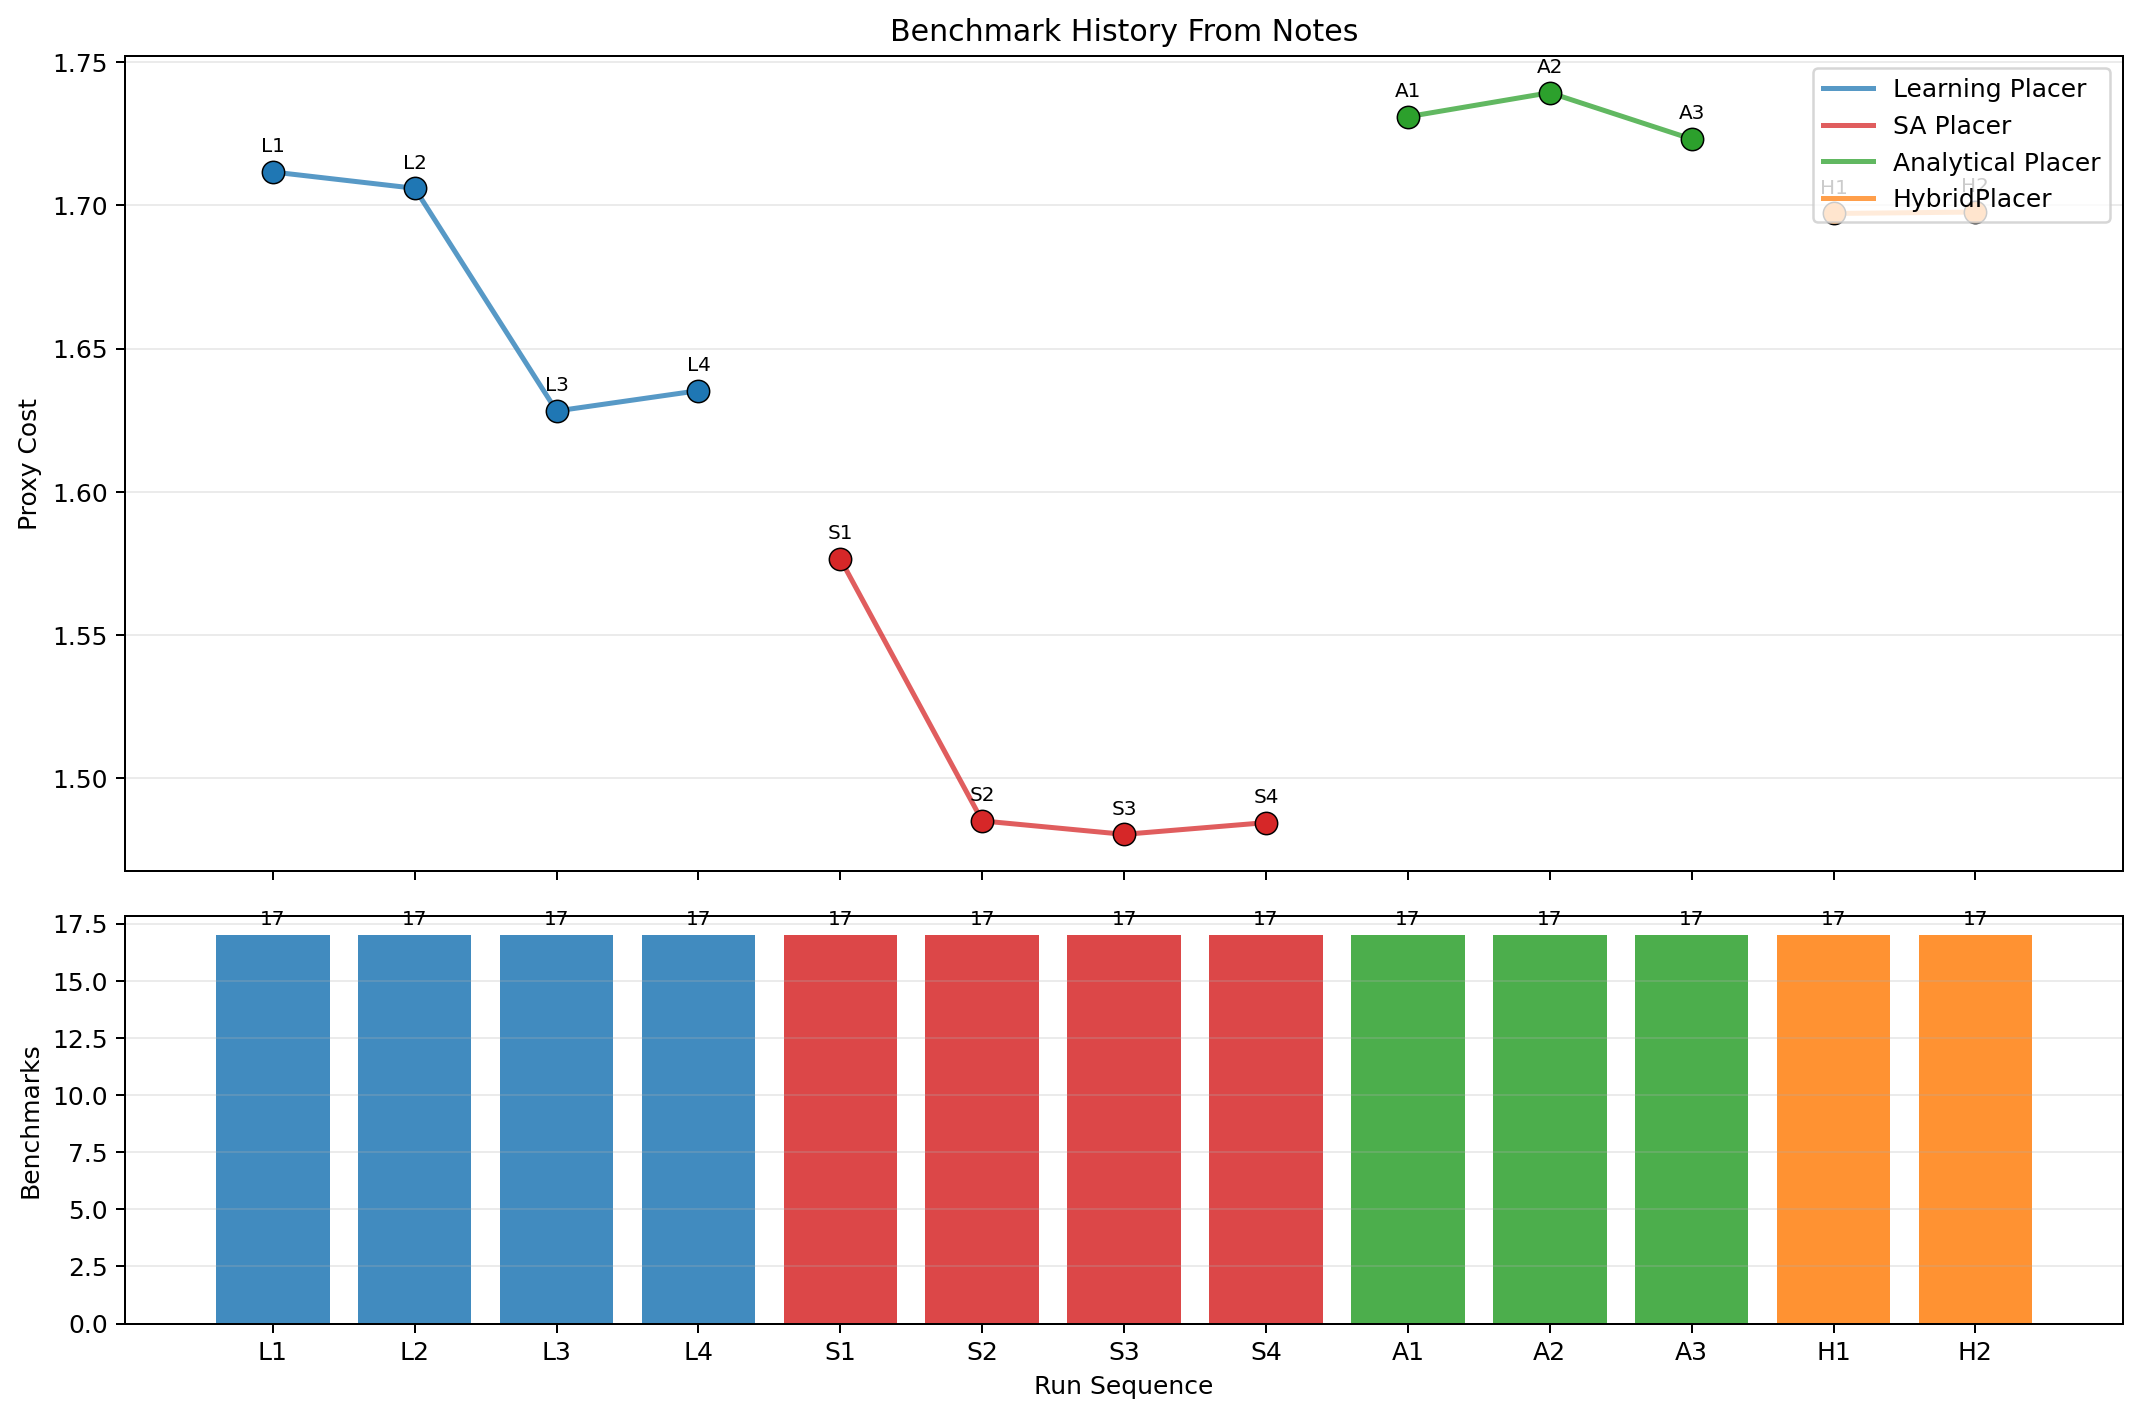
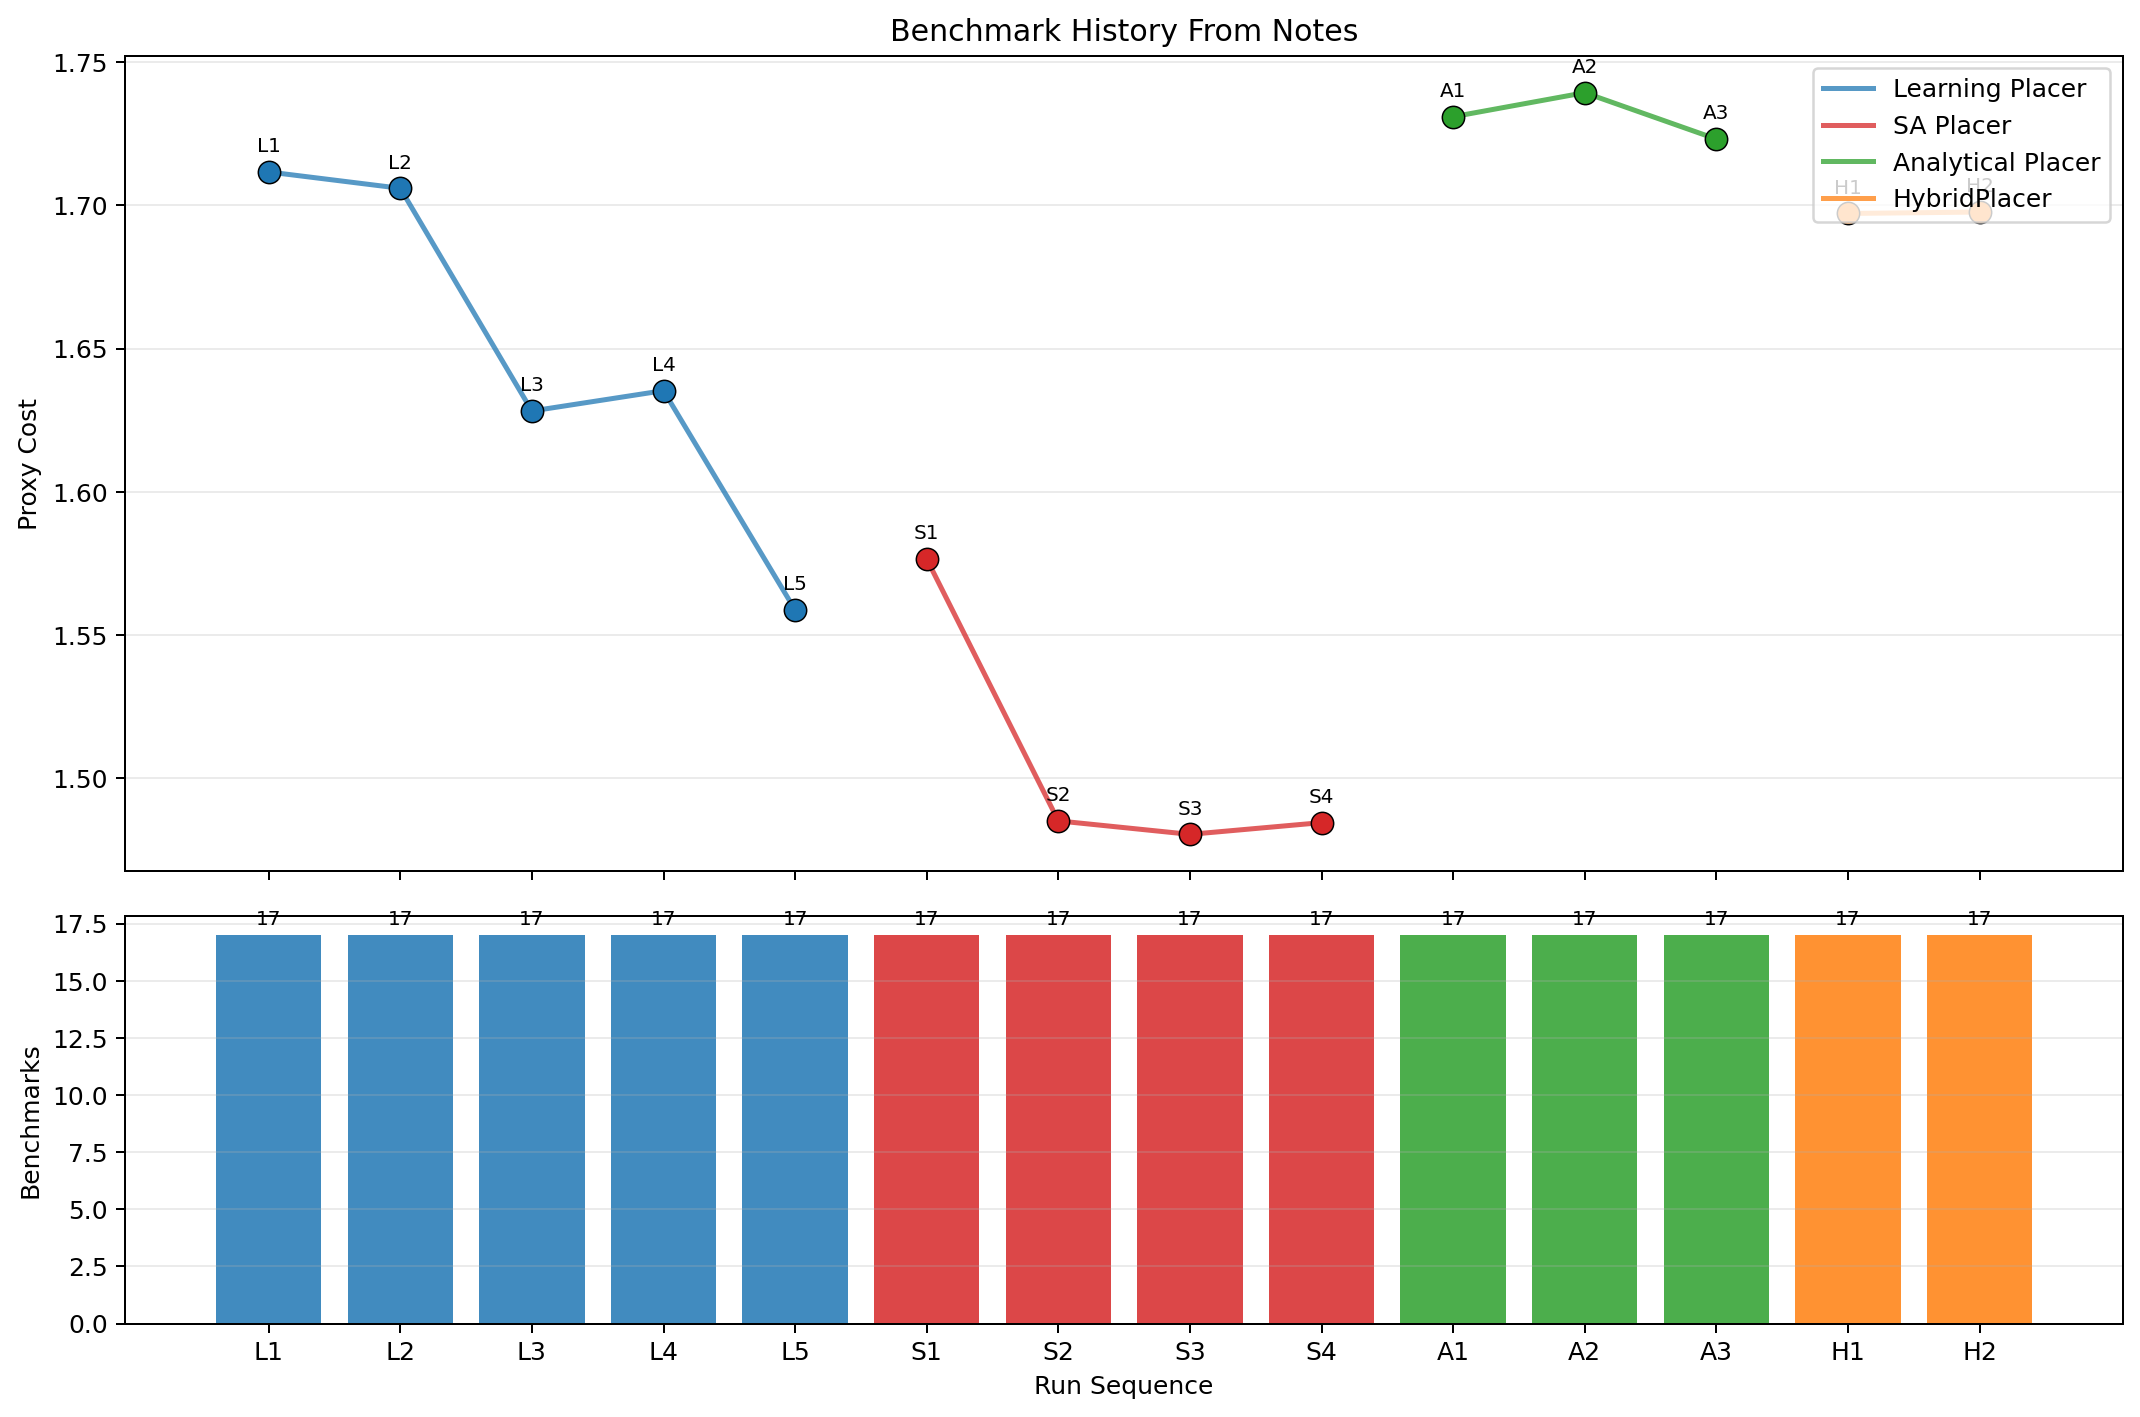
Update benchmark results and summary: reflect congestion-focused overhaul improvements in Learning Placer performance metrics.

diff --git a/notes/benchmark history/benchmark_history_raw.md b/notes/benchmark history/benchmark_history_raw.md
@@ -10,6 +10,7 @@ Generated from the note files in this directory.
 | L2 | Learning Placer | 2026-04-04 | Full suite rerun (`--no-media`) | full_suite | 17 | 1.7060 | 1.7060 | 457.74 | (RL method)eklundnotes.md |
 | L3 | Learning Placer | 2026-04-04 | v2: Pre-trained GNN + Density-aware SA + Greedy Flipping | full_suite | 17 | 1.6282 | 1.6282 | 84.55 | (RL method)eklundnotes.md |
 | L4 | Learning Placer | 2026-04-05 | v3: Research-paper-informed pretraining improvements | full_suite | 17 | 1.6353 | 1.6353 | 2275.30 | (RL method)eklundnotes.md |
+| L5 | Learning Placer | 2026-04-06 | v4: Congestion-focused overhaul + compute increase | full_suite | 17 | 1.5587 | 1.5587 | 16101.80 | (RL method)eklundnotes.md |
 | S1 | SA Placer | 2026-04-03 | SA Placer (PLACER_METHOD=sa) | full_suite | 17 | 1.5765 | 1.5765 | 215.00 | (SA + Analytical method) Omnellnotes.md |
 | S2 | SA Placer | 2026-04-04 | SA Placer (PLACER_METHOD=sa) | full_suite | 17 | 1.4850 | 1.4850 | 999.38 | (SA + Analytical method) Omnellnotes.md |
 | S3 | SA Placer | 2026-04-04, v2 | SA Placer (PLACER_METHOD=sa) | full_suite | 17 | 1.4803 | 1.4803 | 676.83 | (SA + Analytical method) Omnellnotes.md |
@@ -92,6 +93,23 @@ Generated from the note files in this directory.
 | L4 | Learning Placer | ibm16 | 1.6646 | 0.049 | 0.934 | 2.297 | 153.31 | (RL method)eklundnotes.md |
 | L4 | Learning Placer | ibm17 | 1.7720 | 0.053 | 0.954 | 2.485 | 210.96 | (RL method)eklundnotes.md |
 | L4 | Learning Placer | ibm18 | 1.8005 | 0.053 | 1.042 | 2.453 | 110.45 | (RL method)eklundnotes.md |
+| L5 | Learning Placer | ibm01 | 1.1477 | 0.067 | 0.859 | 1.304 | 671.70 | (RL method)eklundnotes.md |
+| L5 | Learning Placer | ibm02 | 1.5618 | 0.076 | 0.690 | 2.282 | 388.45 | (RL method)eklundnotes.md |
+| L5 | Learning Placer | ibm03 | 1.7196 | 0.079 | 1.065 | 2.217 | 536.91 | (RL method)eklundnotes.md |
+| L5 | Learning Placer | ibm04 | 1.3948 | 0.069 | 0.780 | 1.871 | 710.03 | (RL method)eklundnotes.md |
+| L5 | Learning Placer | ibm06 | 1.6858 | 0.063 | 0.704 | 2.543 | 429.12 | (RL method)eklundnotes.md |
+| L5 | Learning Placer | ibm07 | 1.4806 | 0.065 | 0.806 | 2.025 | 612.93 | (RL method)eklundnotes.md |
+| L5 | Learning Placer | ibm08 | 1.7002 | 0.068 | 0.940 | 2.324 | 793.02 | (RL method)eklundnotes.md |
+| L5 | Learning Placer | ibm09 | 1.1825 | 0.057 | 0.895 | 1.355 | 770.13 | (RL method)eklundnotes.md |
+| L5 | Learning Placer | ibm10 | 1.6436 | 0.058 | 0.958 | 2.214 | 1476.55 | (RL method)eklundnotes.md |
+| L5 | Learning Placer | ibm11 | 1.3557 | 0.054 | 0.979 | 1.624 | 634.07 | (RL method)eklundnotes.md |
+| L5 | Learning Placer | ibm12 | 1.6348 | 0.060 | 0.750 | 2.400 | 971.40 | (RL method)eklundnotes.md |
+| L5 | Learning Placer | ibm13 | 1.5596 | 0.054 | 1.024 | 1.988 | 592.36 | (RL method)eklundnotes.md |
+| L5 | Learning Placer | ibm14 | 1.5885 | 0.051 | 0.946 | 2.129 | 1378.06 | (RL method)eklundnotes.md |
+| L5 | Learning Placer | ibm15 | 1.7827 | 0.057 | 1.069 | 2.381 | 2703.37 | (RL method)eklundnotes.md |
+| L5 | Learning Placer | ibm16 | 1.5033 | 0.049 | 0.811 | 2.098 | 1321.16 | (RL method)eklundnotes.md |
+| L5 | Learning Placer | ibm17 | 1.7580 | 0.052 | 0.945 | 2.467 | 1438.32 | (RL method)eklundnotes.md |
+| L5 | Learning Placer | ibm18 | 1.7984 | 0.053 | 1.043 | 2.447 | 674.22 | (RL method)eklundnotes.md |
 | S1 | SA Placer | ibm01 | 1.2923 | 0.067 | 1.070 | 1.381 | 12.50 | (SA + Analytical method) Omnellnotes.md |
 | S1 | SA Placer | ibm02 | 1.7310 | 0.075 | 0.901 | 2.411 | 7.32 | (SA + Analytical method) Omnellnotes.md |
 | S1 | SA Placer | ibm03 | 1.4484 | 0.078 | 0.895 | 1.846 | 7.54 | (SA + Analytical method) Omnellnotes.md |

diff --git a/notes/(RL method)eklundnotes.md b/notes/(RL method)eklundnotes.md
@@ -134,3 +134,44 @@ The research-paper improvements helped density but didn't yet translate to overa
 Notable improvements: ibm04 (1.4569→1.4279), ibm11 (1.3852→1.3709).
 Notable regressions: ibm12 (1.9648→1.9361 better), ibm06 still worst (2.0281).
 Now beats SA on 16/17 (was 15/17) — ibm03 is the only loss.
+
+## 2026-04-06 — v4: Congestion-focused overhaul + compute increase
+
+Changes:
+- **Congestion weight 10-20x increase**: GNN fine-tune max 0.025→0.5, refinement stage 2 up to 1.0
+- **Two-stage refinement**: stage 1 (40%) WL+overlap focus, stage 2 (60%) congestion-heavy
+- **Evaluator grid dims**: density penalty uses actual `grid_col`/`grid_row` instead of hardcoded 16
+- **Benchmark-specific density target**: computed from actual macro utilization (×1.2 slack)
+- **Best GNN checkpoint tracking**: restores best epoch by WL+congestion, not last
+- **LR warmup + cosine decay**: for GNN fine-tuning stability
+- **Initial.plc multi-start**: extra SA-only run from original positions with 1.5× SA iters
+- **Compute budget increase**: finetune 100→400, refine 300→800, SA 100K→500K, starts 3→5+1
+- **Retrained GNN** with matching congestion weight fix
+
+### Full suite run (this config):
+| Benchmark | Proxy | WL | Density | Congestion | Time | vs SA baseline |
+|-----------|-------|-----|---------|------------|------|----------------|
+| ibm01 | 1.1477 | 0.067 | 0.859 | 1.304 | 671.70s | BETTER (1.3166) |
+| ibm02 | 1.5618 | 0.076 | 0.690 | 2.282 | 388.45s | BETTER (1.9072) |
+| ibm03 | 1.7196 | 0.079 | 1.065 | 2.217 | 536.91s | BETTER (1.7401) |
+| ibm04 | 1.3948 | 0.069 | 0.780 | 1.871 | 710.03s | BETTER (1.5037) |
+| ibm06 | 1.6858 | 0.063 | 0.704 | 2.543 | 429.12s | BETTER (2.5057) |
+| ibm07 | 1.4806 | 0.065 | 0.806 | 2.025 | 612.93s | BETTER (2.0229) |
+| ibm08 | 1.7002 | 0.068 | 0.940 | 2.324 | 793.02s | BETTER (1.9239) |
+| ibm09 | 1.1825 | 0.057 | 0.895 | 1.355 | 770.13s | BETTER (1.3875) |
+| ibm10 | 1.6436 | 0.058 | 0.958 | 2.214 | 1476.55s | BETTER (2.1108) |
+| ibm11 | 1.3557 | 0.054 | 0.979 | 1.624 | 634.07s | BETTER (1.7111) |
+| ibm12 | 1.6348 | 0.060 | 0.750 | 2.400 | 971.40s | BETTER (2.8261) |
+| ibm13 | 1.5596 | 0.054 | 1.024 | 1.988 | 592.36s | BETTER (1.9141) |
+| ibm14 | 1.5885 | 0.051 | 0.946 | 2.129 | 1378.06s | BETTER (2.2750) |
+| ibm15 | 1.7827 | 0.057 | 1.069 | 2.381 | 2703.37s | BETTER (2.3000) |
+| ibm16 | 1.5033 | 0.049 | 0.811 | 2.098 | 1321.16s | BETTER (2.2337) |
+| ibm17 | 1.7580 | 0.052 | 0.945 | 2.467 | 1438.32s | BETTER (3.6726) |
+| ibm18 | 1.7984 | 0.053 | 1.043 | 2.447 | 674.22s | BETTER (2.7755) |
+| **AVG** | **1.5587** | | | | 16101.83s | **SA: 2.1251** |
+
+Beat SA baseline on 17/17. Beat RePlAce on 2/17 (ibm02, ibm12).
+**Major improvement: 1.6353 → 1.5587 (-4.7%).**
+Congestion-focused changes drove big gains on ibm06 (-16.9%), ibm07 (-10.8%), ibm16 (-9.7%), ibm12 (-15.6%).
+Density scores excellent (mostly 0.7-1.0). Congestion still the main gap vs RePlAce.
+Close to RePlAce on ibm07 (-1.2%), ibm18 (-1.5%), ibm16 (-1.7%).

diff --git a/README.md b/README.md
@@ -23,7 +23,7 @@ Submissions are ranked by **average proxy cost** across all 17 IBM benchmarks (l
 | 8 | Will Seed (Partcl) | 1.5338 | 1.1625 | 1.7965 | 0 | 35s total | ✅ |
 | 9 | "UT Austin" - RH (DREAMPlace) | 1.6037 | — | — | 0 | 4.5s/bench |  |
 | 10 | HybridPlacer (ours) | 1.6977 | 1.2477 | 2.0305 | 0 | 324.72s total |  |
-| 11 | Learning Placer (ours) | 1.7060 | 1.2707 | 2.0338 | 0 | 457.74s total |  |
+| 11 | Learning Placer (ours) | 1.5587 | 1.1477 | 1.7984 | 0 | 16101.83s total |  |
 | 12 | Analytical Placer (ours) | 1.7394 | 1.3438 | 2.0684 | 0 | 598.68s total |  |
 | 13 | "UT Austin" - CT (PROXYCost) | 1.8706 | — | — | 0 | 187s/bench |  |
 | — | SA (baseline) | 2.1251 | 1.3166 | 3.6726 | 0 | — | ✅ |

diff --git a/notes/benchmark history/benchmark_history_summary.md b/notes/benchmark history/benchmark_history_summary.md
@@ -15,6 +15,7 @@ This graph summarizes the full-suite benchmark sections logged in the notes.
 | L2 | Learning Placer | 2026-04-04 | full_suite | 1.7060 | 17 |
 | L3 | Learning Placer | 2026-04-04 | full_suite | 1.6282 | 17 |
 | L4 | Learning Placer | 2026-04-05 | full_suite | 1.6353 | 17 |
+| L5 | Learning Placer | 2026-04-06 | full_suite | 1.5587 | 17 |
 | S1 | SA Placer | 2026-04-03 | full_suite | 1.5765 | 17 |
 | S2 | SA Placer | 2026-04-04 | full_suite | 1.4850 | 17 |
 | S3 | SA Placer | 2026-04-04, v2 | full_suite | 1.4803 | 17 |
